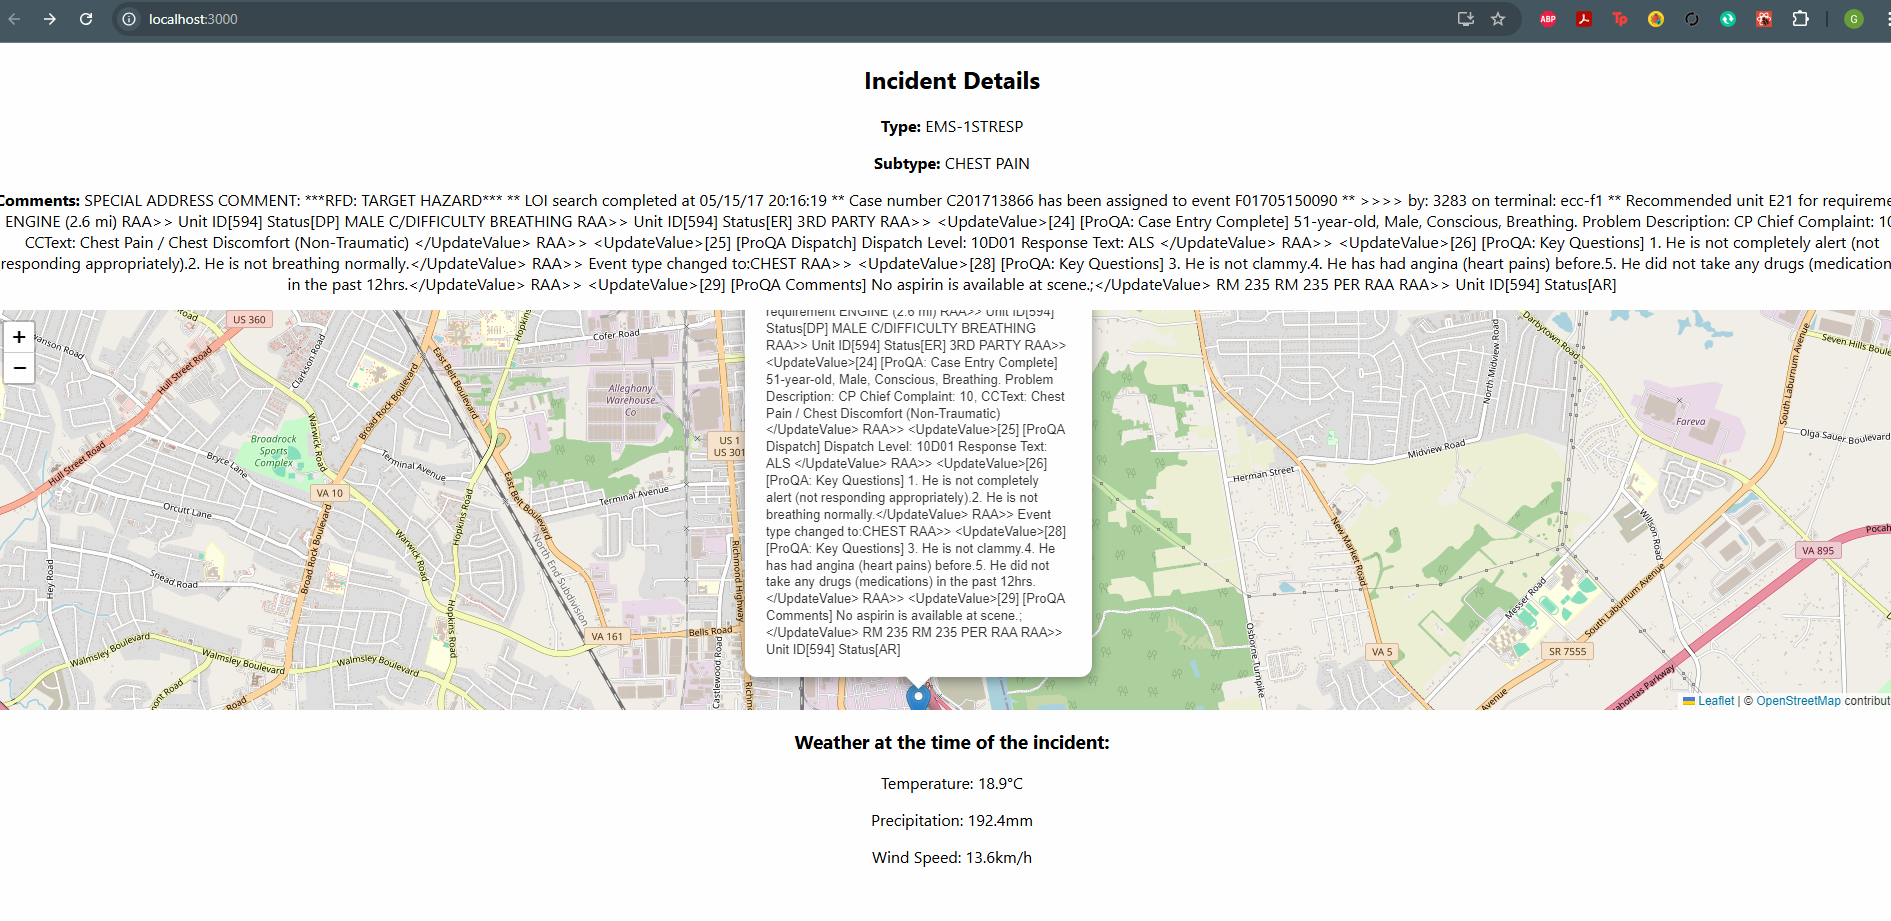
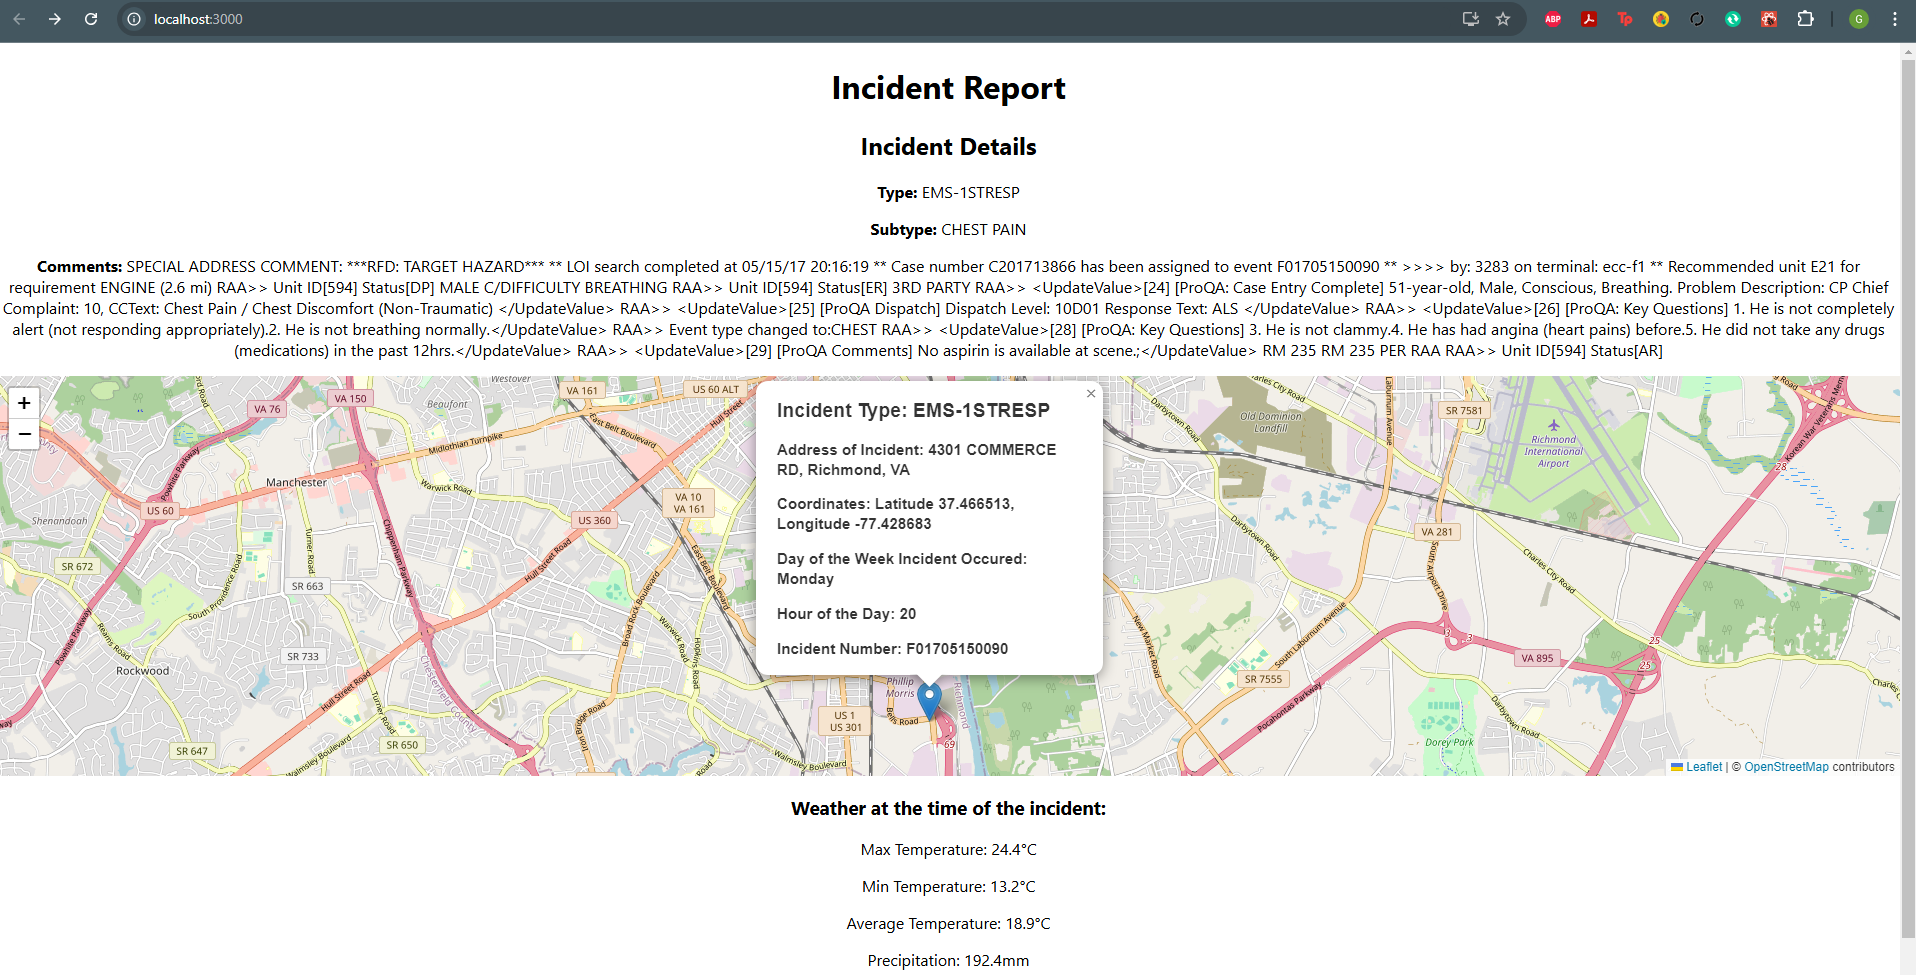
Updated README file and cleaned up comments

diff --git a/src/components/WeatherComponent.js b/src/components/WeatherComponent.js
@@ -6,15 +6,17 @@ const WeatherComponent = ({latitude, longitude, timestamp}) => {
 
     useEffect(() => {
         const fetchWeather = async() => {
-            const date = new Date(timestamp).toISOString().split("T")[0] // getting this date from the timestamp, and just splitting it to get the data
+            //Timestamp data from IncidentDetails component. Converting to an ISOstring format (if not already in that format) then extracting the Date part from the ISO String
+            const date = new Date(timestamp).toISOString().split("T")[0] 
+
             //using Axios, we are taking this get request straight from RapidAPI to get the data that we need. This is just given to us in the documentation
             const options = {
                 method: 'GET',
                 url: 'https://meteostat.p.rapidapi.com/point/monthly',
-                params: { //this is the data inside the json files given, and we assign them to the params needed by the endpoint
+                params: { //props passed from IncidentDetails Component, and we assign them to the params needed by the endpoint
                   lat: latitude, 
                   lon: longitude,
-                  start: date,
+                  start: date, //This is the date we got from the time stamp
                   end: date
                 },
                 headers: {
@@ -23,9 +25,9 @@ const WeatherComponent = ({latitude, longitude, timestamp}) => {
                 }
               };
 
-              try { //Once we build out the data, use axious to make a get request and then set the response data for weather in the useState
+              try { //Once we build out the data, use axios to make a get request and then set the response data for weather in the useState
                   const response = await axios.request(options);
-                  console.log(response.data);
+                  console.log(response.data); //need to see what the data is that is being returned in the console
                   setWeather(response.data.data[0]);
               } catch (error) {
                   console.error(error);
@@ -34,11 +36,15 @@ const WeatherComponent = ({latitude, longitude, timestamp}) => {
         fetchWeather() 
     }, [latitude, longitude, timestamp]) //any time any of these dependencies change, rerun useEffect to grab the most recent data needed
 
-    if (!weather) return <div>Loading weather data...</div>;
+    if (!weather) return <div>Loading weather data...</div>; //Could use Lazy or suspense
+
   return (
+    //Shows information of the weather during the date of the incident at the given location. Units of measurement used are assumptions.
     <div> 
-      <h3>Weather at the time of the incident:</h3>
-      <p>Temperature: {weather.tavg}°C</p>
+      <h2>Weather at the time of the incident:</h2>
+      <p>Max Temperature: {weather.tmax}°C</p>
+      <p>Min Temperature: {weather.tmin}°C</p>
+      <p>Average Temperature: {weather.tavg}°C</p>
       <p>Precipitation: {weather.prcp}mm</p>
       <p>Wind Speed: {weather.wspd}km/h</p>
     </div>

diff --git a/src/components/MapComponent.js b/src/components/MapComponent.js
@@ -14,11 +14,13 @@ L.Icon.Default.mergeOptions({
 });
 
 const MapComponent = ({ latitude, longitude, incidentData }) => {
-  const position = [latitude, longitude]; //getting this from incident details
+  const position = [latitude, longitude]; //getting this from incident details. Both were props passed into this component from incident details
 
-  //The Popup inside the marker component shows some data about the incident. This can be adjust to have more or less data. Just showing the type and the comments.
-
-  return (
+  //The Popup inside the marker component shows some data about the incident. 
+  //The data displayed inside the popup is dependent on the incidentData (specifically incidentData.description and incidentData.description), and any of the following attributes inside them.
+  //This can be adjusted to have more or less data. Showing some basic relevant data rght now.
+  
+  return ( //height can be adjusted to display more data. Kept it at default size for now.
     <MapContainer center={position} zoom={13} style={{ height: '400px', width: '100%' }}>
       <TileLayer
         url="https://{s}.tile.openstreetmap.org/{z}/{x}/{y}.png"
@@ -27,8 +29,12 @@ const MapComponent = ({ latitude, longitude, incidentData }) => {
       <Marker position={position}>
         <Popup>
           <div>
-            <h3>{incidentData.description.type}</h3> 
-            <p>{incidentData.description.comments}</p>
+            <h2>Incident Type: {incidentData.description.type}</h2> 
+            <h3>Address of Incident: {incidentData.address.address_line1}, {incidentData.address.city}, {incidentData.address.state} </h3>
+            <h3>Coordinates: Latitude {incidentData.address.latitude}, Longitude {incidentData.address.longitude} </h3>
+            <h3>Day of the Week Incident Occured: {incidentData.description.day_of_week}</h3>
+            <h3>Hour of the Day: {incidentData.description.hour_of_day}</h3>
+            <h3>Incident Number: {incidentData.description.incident_number}</h3>
           </div>
         </Popup>
       </Marker>

diff --git a/src/components/IncidentDetail.js b/src/components/IncidentDetail.js
@@ -3,10 +3,13 @@ import MapComponent from "./MapComponent"
 import WeatherComponent from "./WeatherComponent";
 
 const IncidentDetail = ({incidentData}) => {
-    const {latitude, longitude} = incidentData.address //destructuring lat and longitude from the incidenData.address
-    const {event_opened} = incidentData.description //getting the event description
+    const {latitude, longitude} = incidentData.address //destructuring latitude and longitude from the incidenData.address and will be passed into MapComponent and WeatherComponent
+    const {event_opened} = incidentData.description //getting this from event description, which is actually a timestamp. This will be passed into the WeatherComponent.
 
     return (
+        //shows the details of the incident. Can be adjusted to show more info if needed.
+        //MapComponent shows the incident on the map
+        //WeatherComponent shows the weather at the time of the incident
         <div>
           <h2>Incident Details</h2>
           <p>
@@ -18,12 +21,12 @@ const IncidentDetail = ({incidentData}) => {
           <p>
             <strong>Comments:</strong> {incidentData.description.comments}
           </p>
-          <MapComponent //These are the props we need to pass to the map component
+          <MapComponent //props passed in from destructuring above
             latitude={latitude}
             longitude={longitude}
             incidentData={incidentData}
           />
-          <WeatherComponent //props needed to pass in the weather component
+          <WeatherComponent //props passed in from destructuring above
             latitude={latitude}
             longitude={longitude}
             timestamp={event_opened}

diff --git a/src/App.js b/src/App.js
@@ -1,8 +1,9 @@
 import React, { useState, useEffect } from "react"
-import logo from './logo.svg';
-import incidentData from "./data/F01705150090.json"
+import incidentData from "./data/F01705150090.json" //as per instructions, this is only taking in one incident file at a time
 import IncidentDetail from "./components/IncidentDetail"
 import './App.css';
+
+// Front page of the application. This displays the incident details component, which incorporates the other components I made.
 
 function App() {
 
@@ -10,12 +11,13 @@ function App() {
 
   useEffect(() => {
     setIncident(incidentData)
-  }, [])
+  }, []) //only runs once on first render, since the data is not changing and we are taking it from a single file
 
-  if (!incident) return <div>Loading incident data...</div>;
+  if (!incident) return <div>Loading incident data...</div>; //Could use Lazy or Suspense
 
   return (
     <div className="App">
+      <h1>Incident Report</h1>
       <IncidentDetail incidentData={incident} />
     </div>
   );

diff --git a/README.md b/README.md
@@ -7,16 +7,19 @@ This project enriches 911 emergency incident data with weather information using
 ## Features
 
 - **Incident Details**: Displays incident type, subtype, and comments.
-- **Map Integration**: Shows the incident location on an interactive map using Leaflet.
+- **Map Integration**: Shows the incident location on an interactive map using Leaflet. Inlcudes a marker with more details regarding the incident.
 - **Weather Data**: Fetches and displays weather conditions at the time of the incident using the Meteostat API.
 
 ---
 
 ## Prerequisites
 
-- I do not have access to an OSX machine. The steps provided will be for a Windows machine, and how to install and run the code.
-Before running the project, ensure you have the following installed:
+I do not have access to an OSX machine. 
+The steps provided will be for a Windows machine, and how to install and run the project on a window machine.
+Before running the project, ensure you have the following installed and configured if necessary:
 
+- Visual Studio Code or any other IDE you prefer. For this project and my recommendation, I used Visual Studio (VS) Code. For the rest of the instructions, I will assume you are using VS Code.
+- Git or GitBash
 - [Node.js](https://nodejs.org/) (v16 or higher)
 - [npm](https://www.npmjs.com/) (comes with Node.js)
 - A Meteostat API key (sign up at [Meteostat](https://dev.meteostat.net/))
@@ -25,11 +28,28 @@ Before running the project, ensure you have the following installed:
 
 ## Installation 
 
-Type "npm i" in the cmd terminal.
-After successful installation of the packages, type "npm start".
+1. Open VS Code, and clone this repository to your local machine.
+2. After cloning, open a terminal or command prompt in VS code and navigate to where you cloned this repository.
+3. Type "npm i" in the cmd terminal. This will install the necessary packages needed to run the application.
+4. After successful installation of the packages, type "npm start". A browser window should open with the application running.
 
+Once the application is running, it should display a page with a leaflet map and a marker icon on the map. 
+The page will display the incident and some details (type, subtype, and comments) above of the map. Below the map will be the weather details (enrichment) during the date of the incident.
+Clicking on the marker icon the map will show more details and enrichment about the incident (address, coordinates, incident number, etc.)
+You can use you scroll wheel to zoom in/out of the map, or use the +/- sign on the top left of the map as well.
+Check out the Screenshots section below to see what the project looks like if it is running correctly.
+
+## Troubleshooting
+
+- If weather data below the leaflet map is not being displayed, the API key may have expired or reached the request limit allowed for that key. Currently, the Meteostat Rapid API free version allows for 500 API requests before expiring. You would need to acquire a new API key, and use that to replace the current API key in WeatherComponent.js in the headers on line 23. In production, normally you could replace this key and keep it updated in a .env file.
+- If you are having trouble running the application, make sure you have the necessary dependencies installed. These dependencies can be found in the package.json file
+- NOTE: This application uses a hardcoded incident data file that is written in the App.js file on line 2. This is done as per the instructions of this take-home, as it would siffice for the purpose of the assessment. There is also another incident file in the data folder. You can change the file number in App.js on line 2 and save it. When you reload the page, you should seethis new data set and its details in the application. 
+
+
+---
 
 ## Project Structure
+
 fire-department-incidents-assessment/
 ├── public/
 ├── src/
@@ -40,11 +60,14 @@ fire-department-incidents-assessment/
 │   ├── data/
 │   │   └── F01705150050.json
 |   |   └── F01705150090.json
+|   ├── .env
 │   ├── App.js
 │   ├── index.js
 │   └── styles.css
 ├── package.json
 └── README.md
+
+---
 
 ## Components 
 
@@ -53,22 +76,39 @@ Displays the incident location on an interactive map using Leaflet.
 Includes a marker with a popup showing incident details.
 
 2. WeatherComponent.js
-Fetches weather data for the incident location and time using the Meteostat API.
-Displays temperature, precipitation, and wind speed.
+Fetches weather data for the incident location and date using the Meteostat API.
+Displays temperature(max, min, & average), precipitation, and wind speed on that date and location.
 
 3. IncidentDetail.js
 Combines the MapComponent and WeatherComponent to display all incident details.
 
-## Screendshots
-Here are the screenshots.
+---
+
+## Screenshots
+
+Here are some the screenshots.
 ![alt text](image.png)
 ![alt text](image-1.png)
 
+---
 
 ## How much time did you spend on the project?
-About 2.5 hours, including some research and implementation.
 
+About 2.5-3 hours. This includes implementation, some research, creating the README, and commenting.
+
+---
 
 ## What improvements would you make or best practices would you utilize if you had double the time?
-I would definitely improve the UI. This is a basic implementation, and we are just displaying the data on the screen.
-I would also try and implement this in TypeScript. Although I do not have much experience with it, I would try and improve the code with TypeScript. 
+
+- Improve the UI. This is a basic implementation, and we are just displaying the data on the screen. I would try to make it more appealing and easy to read
+- Try and implement this in TypeScript. Although I do not have much experience with it, I would try and improve the code with TypeScript. 
+- Possibly implement some more test cases. Given there are two test files, that should suffice to see if the project is working for now.
+- Implement Lazy or suspense. In production, I would assume we are pulling much more data in, which would cause some perfomrance issues. Lazy or suspense could fix some of that.
+- Given more time and if more features are going to be built, it most likely will need better state management, like Redux.
+- Error handling with error boundaries. Implemented some this when fetching the data from the API but there could be other places for error handling as well.
+- Add some security as well, to protect sensitive 911 data and other data extracted from it. Log-in page, accounts, user access, API security (rate-limit requests), etc.
+- Already using this, and continue to use functional components when building out more of the application.
+
+## Conclusion
+
+This project demonstrates how to leverage React, Axios, and Leaflet to build web application that enriches data given from a file, and visualizes data fetched from an external API like Meteostat. By utilizing React’s component-based architecture, Axios for seamless API calls, and Leaflet to display dynamic maps, we have created the beginnings of a rich and engaging user experience with this application. Overall, a solid project that could be built out with many more features and could potentially be used in the real world.
